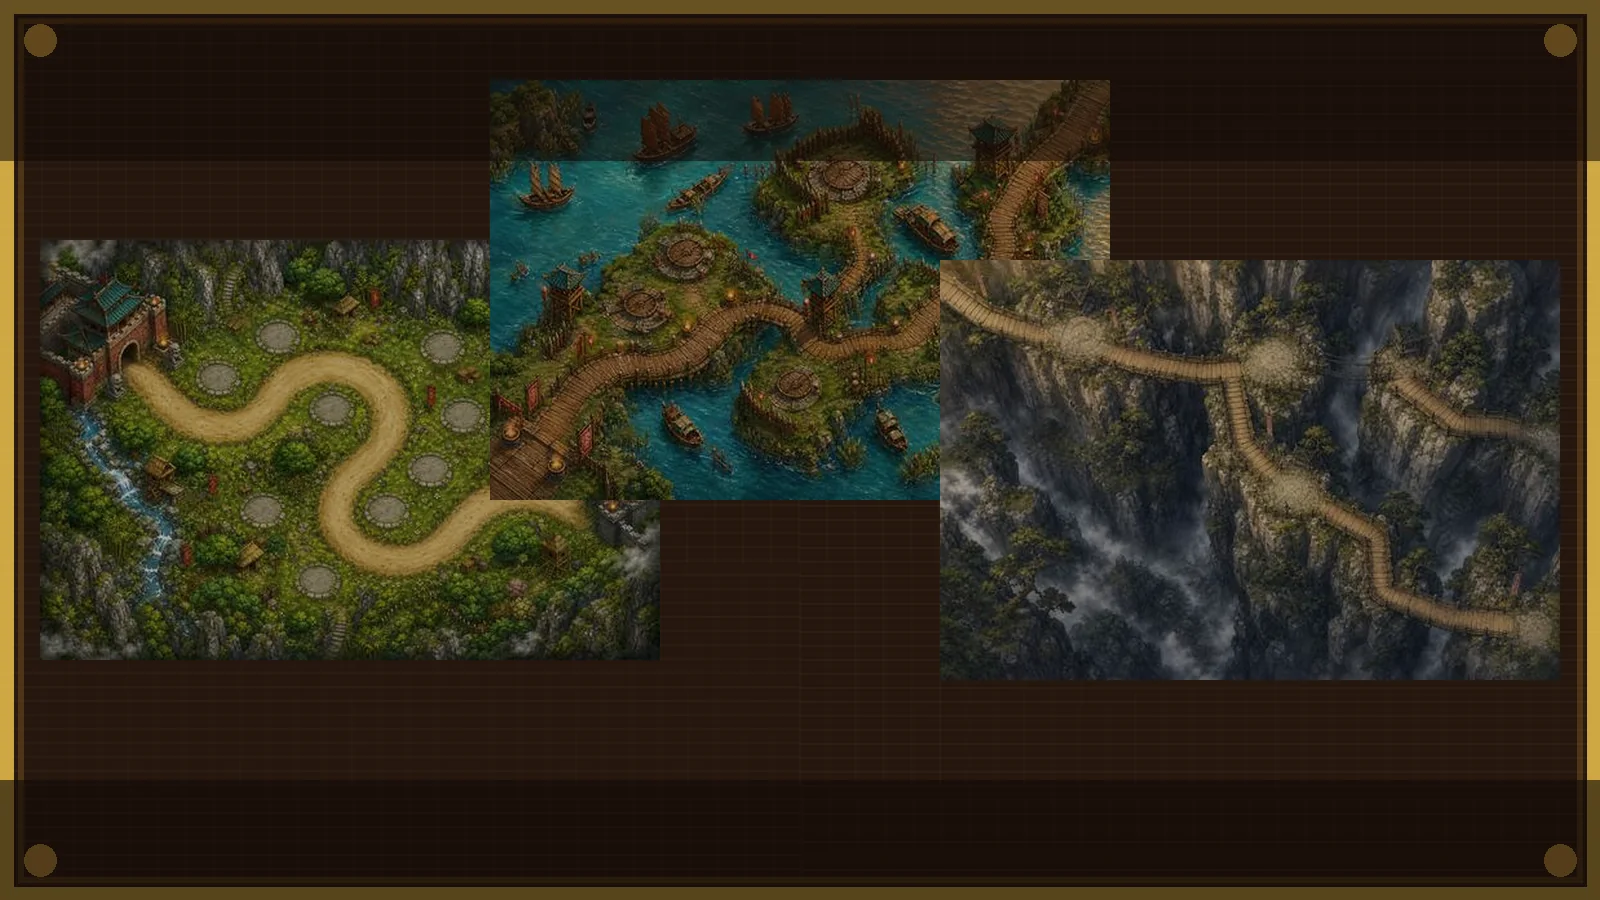
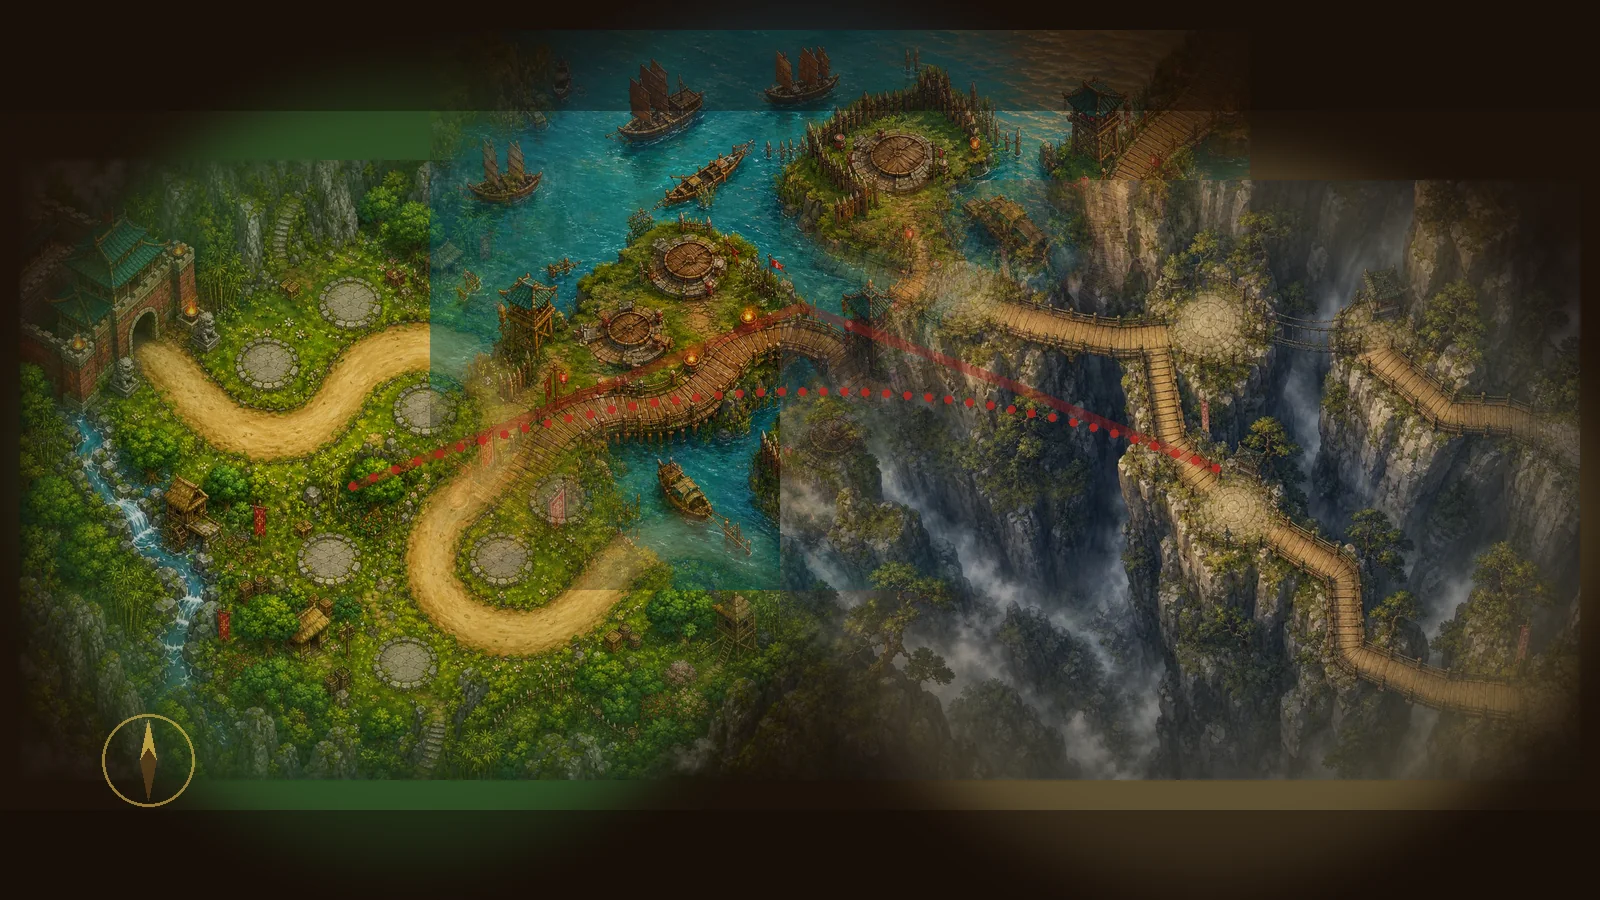
Paint a single 三国 campaign atlas instead of a three-card menu grid.
Blend 虎牢 / 赤壁 / 祁山 into one framed board with a dotted march path and hang the title plaque at the top so the three flag pins sit on geography, not cards.

diff --git a/src/style.css b/src/style.css
@@ -94,7 +94,7 @@ body,
 #menu.campaign {
   display: flex;
   flex-direction: column;
-  justify-content: flex-end;
+  justify-content: flex-start;
   align-items: stretch;
   padding: calc(8px + var(--safe-t)) 16px calc(14px + var(--safe-b));
   background: #120c08;
@@ -163,10 +163,14 @@ body,
 }
 
 .blurb {
-  position: relative;
+  position: absolute;
+  left: 0;
+  right: 0;
+  bottom: calc(10px + var(--safe-b));
   z-index: 1;
   text-align: center;
-  margin: 2px 0 10px;
+  margin: 0;
+  text-shadow: 0 2px 0 #1a1208;
 }
 
 .flag-field {

diff --git a/src/Game.js b/src/Game.js
@@ -1109,6 +1109,7 @@ export class Game {
     this.lives = won ? 18 : 0;
     this.gold = 246;
     this.waveIndex = won ? 8 : 3;
+    this.waveActive = true;
     this.captureEnd(won);
     this.emit();
   }

diff --git a/scripts/make_ui.py b/scripts/make_ui.py
@@ -159,24 +159,67 @@ def board_frame():
     return base.convert("RGBA")
 
 
+def _ellipse_mask(size, feather=90):
+    w, h = size
+    mask = Image.new("L", (w, h), 0)
+    d = ImageDraw.Draw(mask)
+    d.ellipse((8, 8, w - 8, h - 8), fill=255)
+    if feather:
+        mask = mask.filter(ImageFilter.GaussianBlur(feather))
+    return mask
+
+
+def _place_land(board, src, box, fade=0.88):
+    x, y, tw, th = box
+    im = src.resize((tw, th), Image.Resampling.LANCZOS).convert("RGBA")
+    im = ImageEnhance.Color(im).enhance(1.05)
+    im = ImageEnhance.Brightness(im).enhance(fade)
+    im.putalpha(_ellipse_mask((tw, th), max(48, min(tw, th) // 7)))
+    board.alpha_composite(im, (x, y))
+
+
 def campaign_board():
     w, h = 1600, 900
+    land = Image.new("RGBA", (w, h), (28, 18, 10, 255))
+    wash = ImageDraw.Draw(land, "RGBA")
+    wash.ellipse((40, 80, 780, 860), fill=(46, 78, 36, 255))
+    wash.ellipse((420, 20, 1180, 620), fill=(36, 72, 88, 255))
+    wash.ellipse((820, 160, 1580, 880), fill=(92, 78, 48, 255))
+    land = land.filter(ImageFilter.GaussianBlur(28))
+
+    hulao = Image.open(MAPS / "hulao.jpg")
+    chibi = Image.open(MAPS / "chibi.jpg")
+    qishan = Image.open(MAPS / "qishan.jpg")
+    _place_land(land, hulao, (20, 160, 860, 620), 0.9)
+    _place_land(land, chibi, (430, 30, 820, 560), 0.86)
+    _place_land(land, qishan, (780, 180, 800, 600), 0.9)
+
+    ink = Image.new("RGBA", (w, h), (0, 0, 0, 0))
+    d = ImageDraw.Draw(ink, "RGBA")
+    path = [(352, 486), (520, 420), (800, 306), (1000, 380), (1216, 468)]
+    d.line(path, fill=(154, 28, 28, 90), width=10)
+    for i in range(0, 42):
+        t = i / 41
+        x = path[0][0] * (1 - t) * (1 - t) + path[2][0] * 2 * t * (1 - t) + path[4][0] * t * t
+        y = path[0][1] * (1 - t) * (1 - t) + path[2][1] * 2 * t * (1 - t) + path[4][1] * t * t
+        d.ellipse((x - 4, y - 4, x + 4, y + 4), fill=(180, 36, 28, 210))
+    # compass rose, KR-style corner mark
+    cx, cy = 148, 760
+    d.ellipse((cx - 46, cy - 46, cx + 46, cy + 46), outline=(224, 184, 74, 160), width=3)
+    d.polygon([(cx, cy - 40), (cx + 8, cy), (cx, cy + 12), (cx - 8, cy)], fill=(224, 184, 74, 200))
+    d.polygon([(cx, cy + 40), (cx - 8, cy), (cx, cy - 12), (cx + 8, cy)], fill=(90, 60, 24, 200))
+    land = Image.alpha_composite(land, ink)
+
     board = board_frame()
-    thumbs = []
-    for name in ("hulao-thumb.jpg", "chibi-thumb.jpg", "qishan-thumb.jpg"):
-        im = Image.open(MAPS / name).convert("RGB")
-        thumbs.append(im.resize((620, 420), Image.Resampling.LANCZOS))
-    positions = [(40, 240), (490, 80), (940, 260)]
-    for im, (x, y) in zip(thumbs, positions):
-        faded = ImageEnhance.Brightness(im).enhance(0.72)
-        faded = ImageEnhance.Color(faded).enhance(0.85)
-        board.paste(faded, (x, y))
+    board.alpha_composite(land)
+    frame = ImageDraw.Draw(board, "RGBA")
+    frame.rectangle((0, 0, w - 1, h - 1), outline=(224, 184, 74, 230), width=14)
+    frame.rectangle((18, 18, w - 19, h - 19), outline=(90, 60, 24, 200), width=6)
     vignette = Image.new("RGBA", (w, h), (0, 0, 0, 0))
     vd = ImageDraw.Draw(vignette)
-    vd.rectangle((0, 0, w, 160), fill=(18, 10, 6, 140))
-    vd.rectangle((0, h - 120, w, h), fill=(18, 10, 6, 160))
-    board = Image.alpha_composite(board, vignette)
-    return board.filter(ImageFilter.GaussianBlur(0.2))
+    vd.rectangle((0, 0, w, 110), fill=(18, 10, 6, 110))
+    vd.rectangle((0, h - 90, w, h), fill=(18, 10, 6, 130))
+    return Image.alpha_composite(board, vignette).filter(ImageFilter.GaussianBlur(0.2))
 
 
 def wood_bar():
